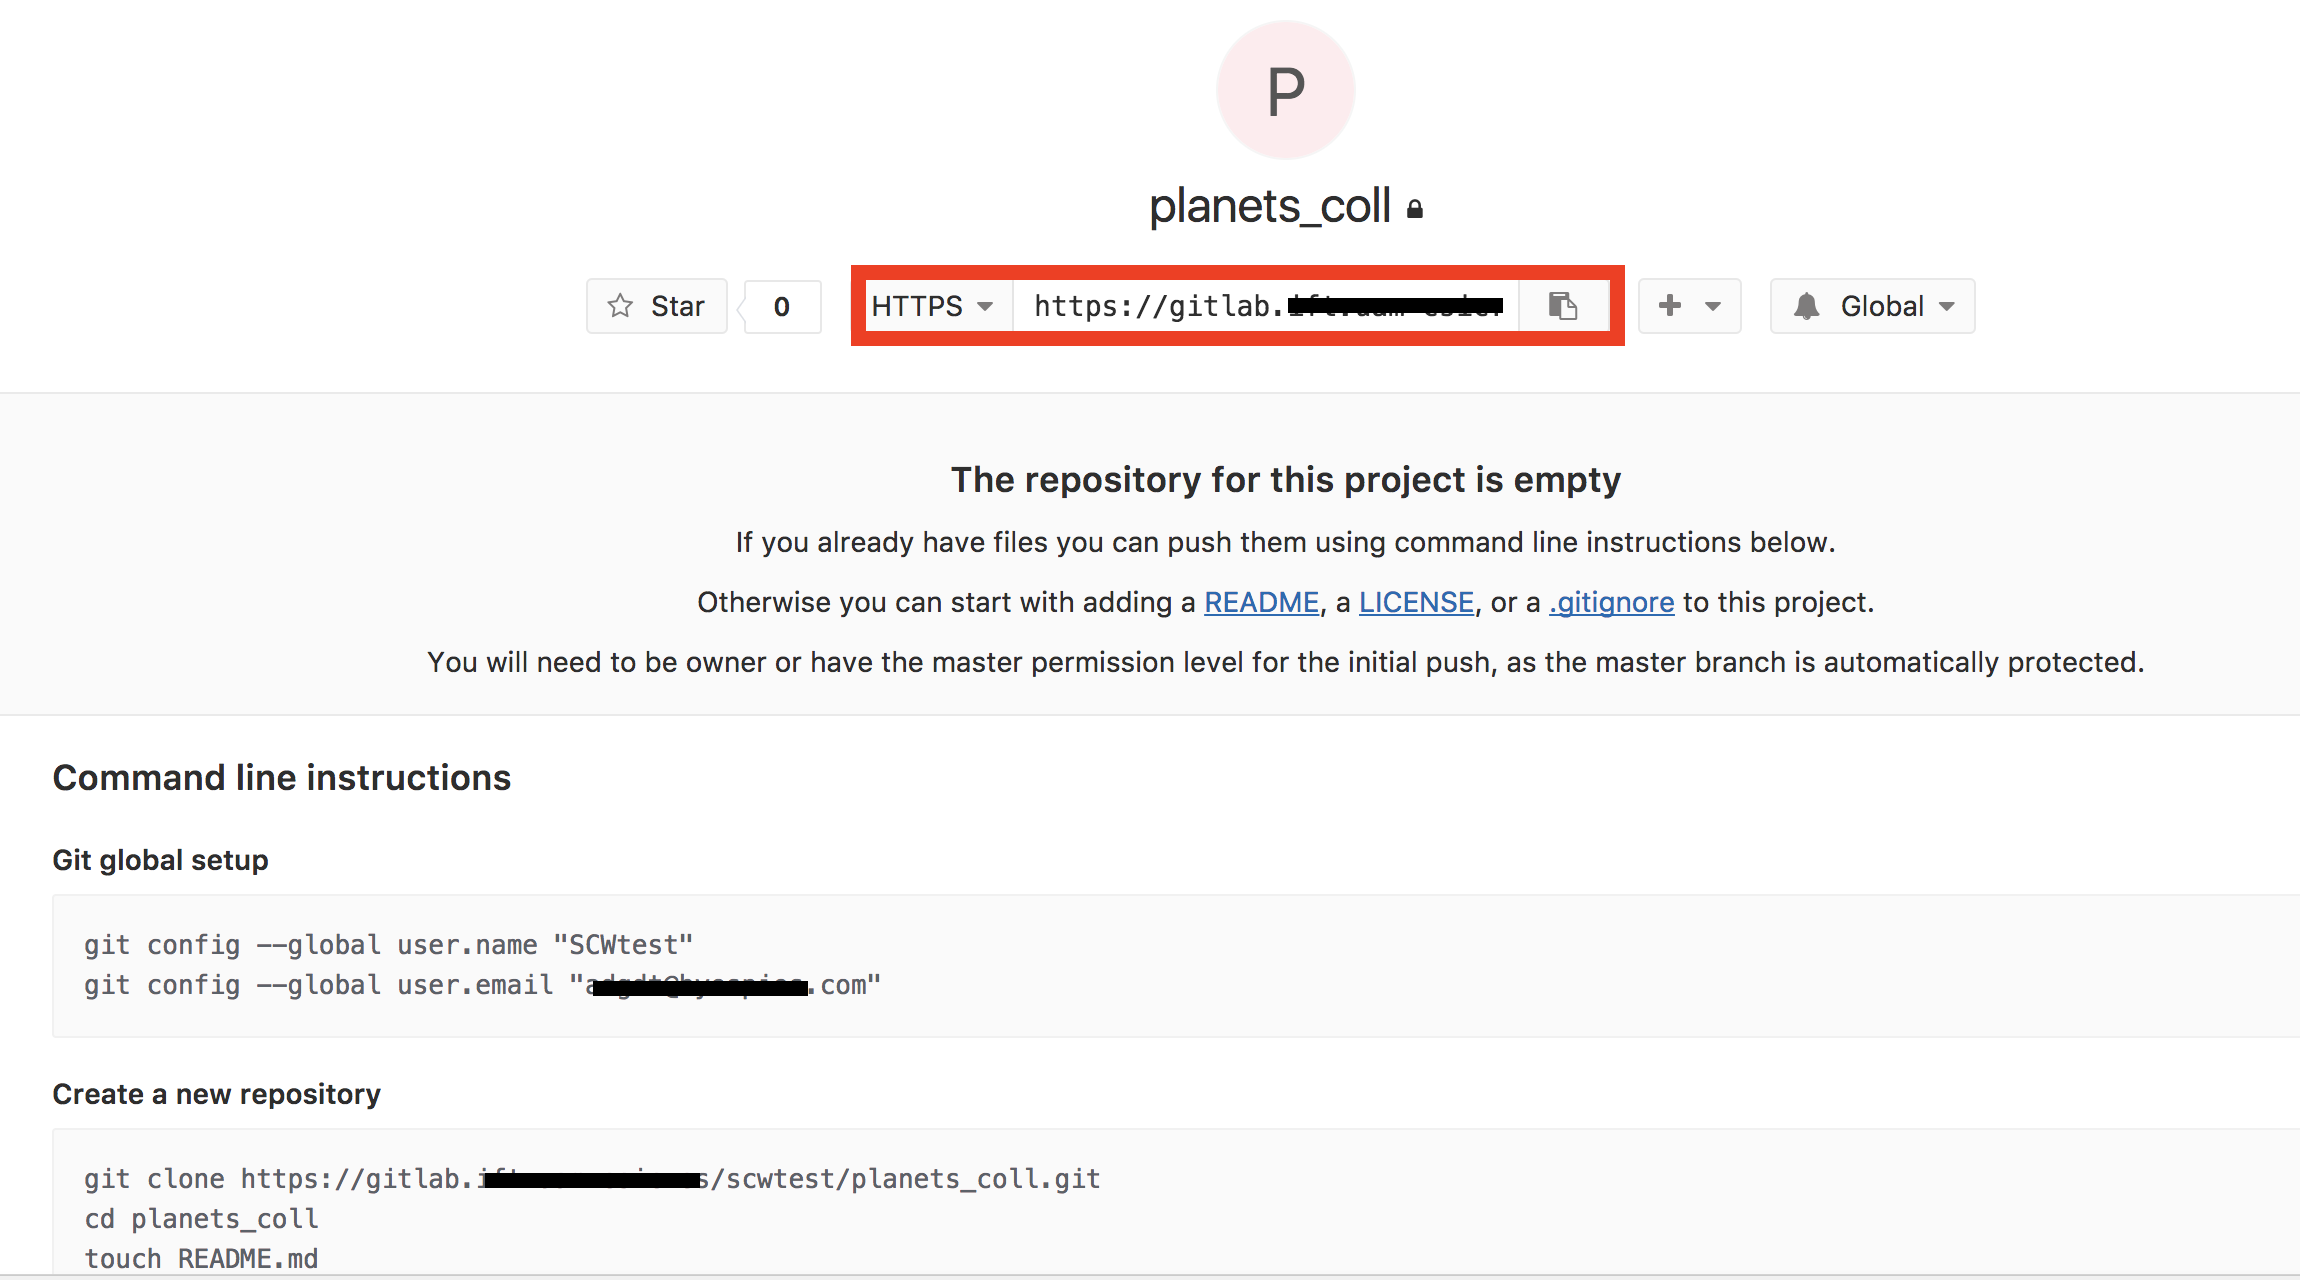
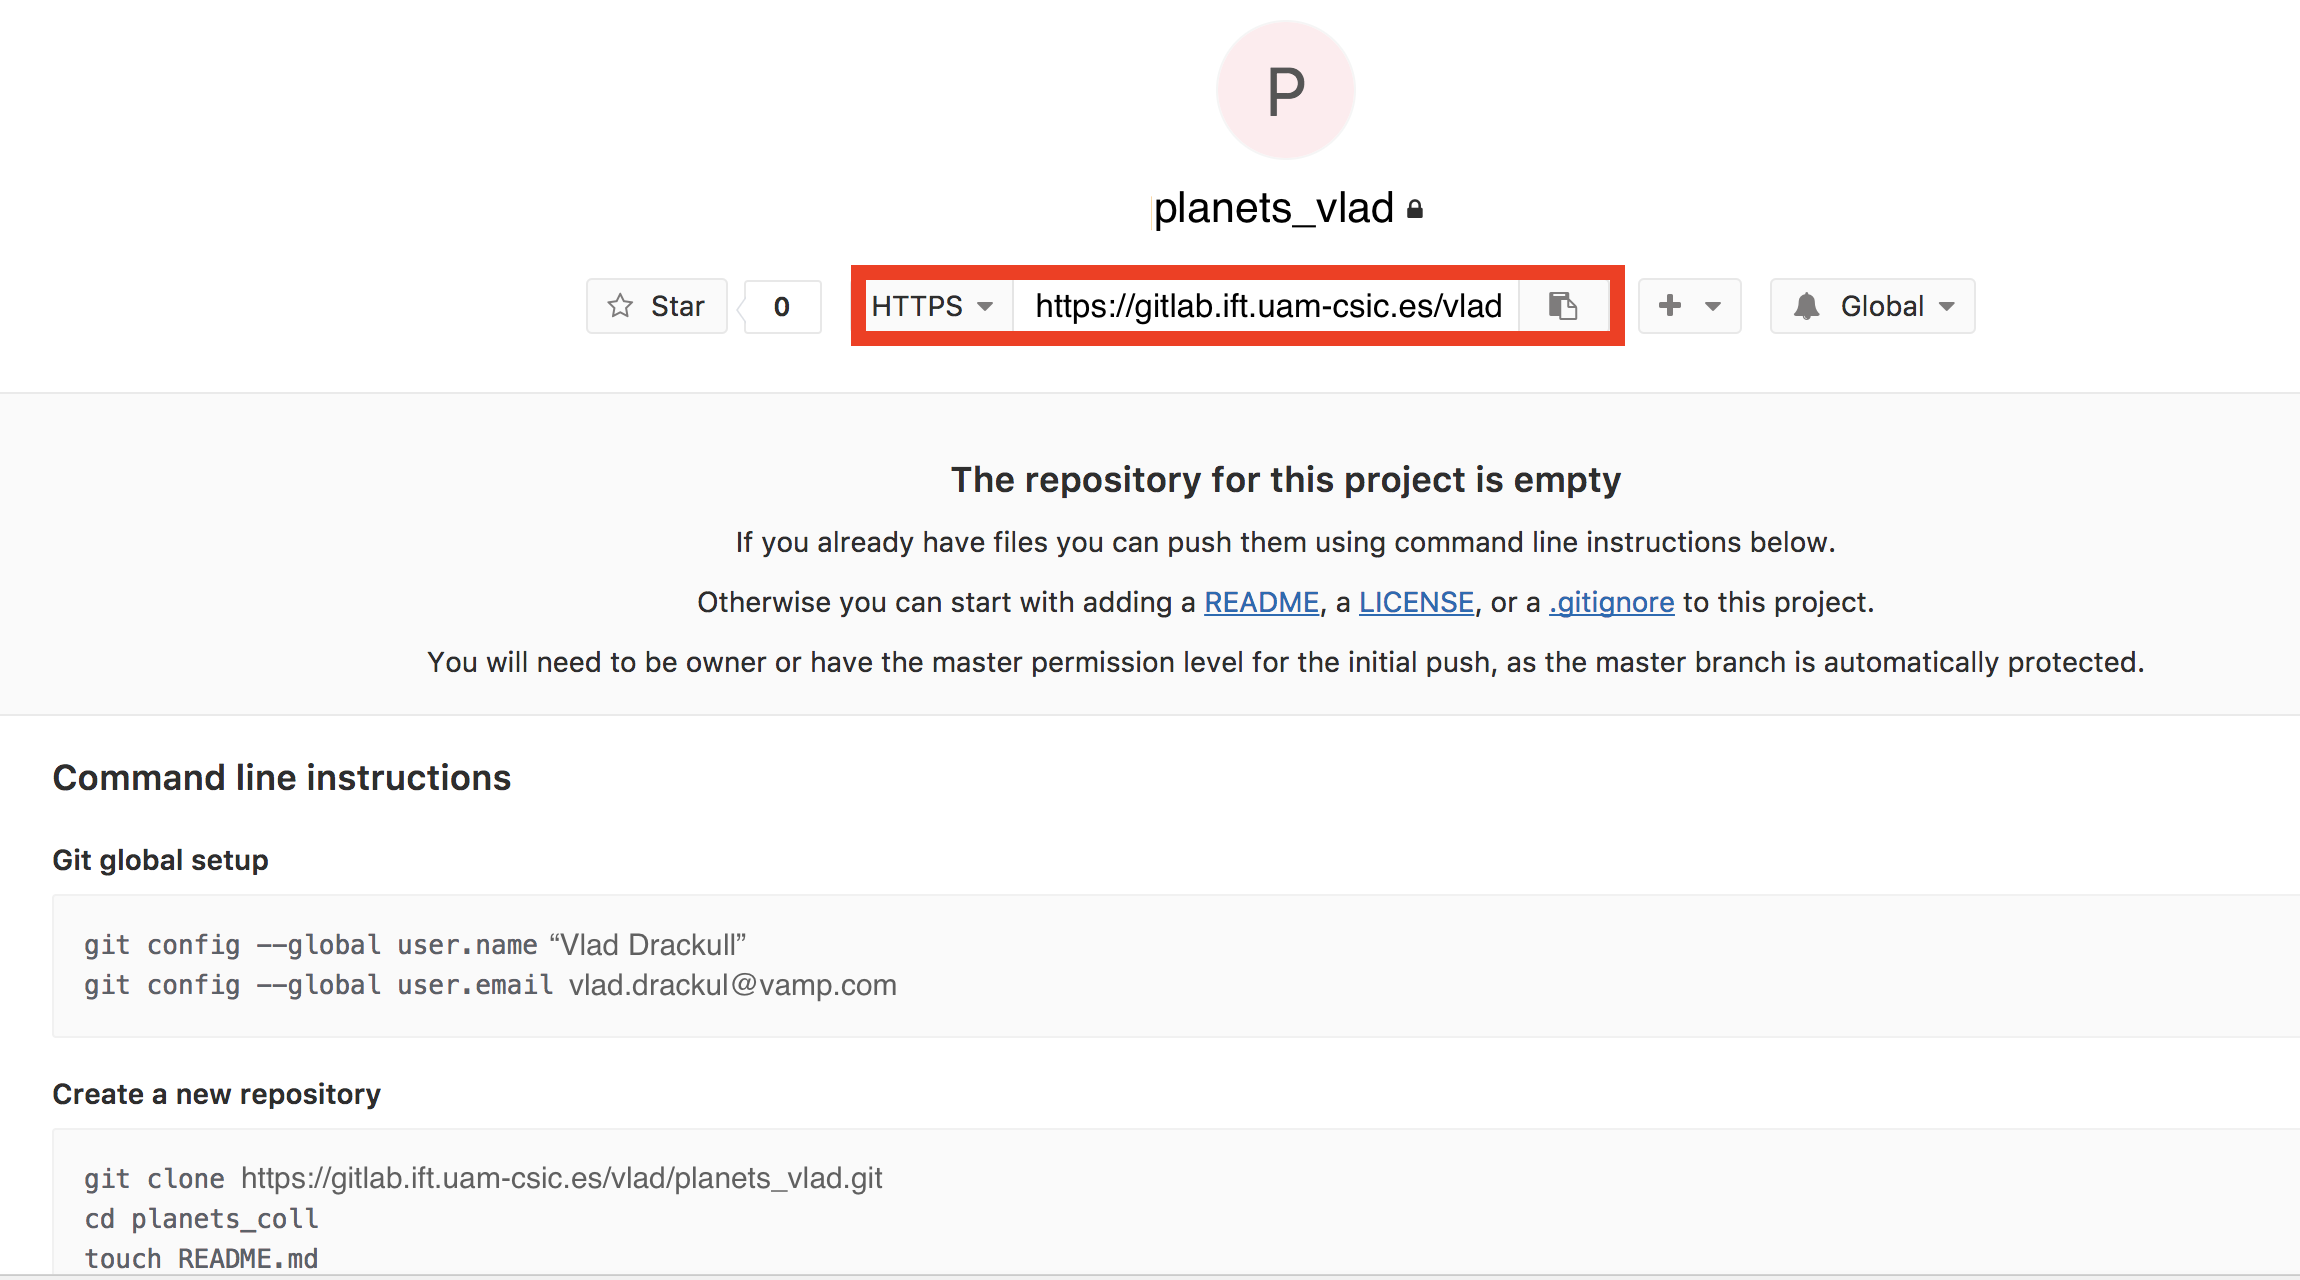
Change user scwtest to vlad to keep coherence with the git-terminal part of the lesson

diff --git a/_episodes/07-github.md b/_episodes/07-github.md
@@ -84,12 +84,12 @@ Copy that URL from the browser, go into the local `planets` repository, and run
 this command:
 
 ~~~
-$ git remote add origin https://gitlab.ift.uam-csic.es/scwtest/planets_vlad.git
+$ git remote add origin https://gitlab.ift.uam-csic.es/vlad/planets_vlad.git
 ~~~
 {: .bash}
 
 Make sure to use the URL for your repository rather than SCWtest's: the only
-difference should be your username instead of `scwtest`.
+difference should be your username instead of `vlad`.
 
 We can check that the command has worked by running `git remote -v`:
 
@@ -99,8 +99,8 @@ $ git remote -v
 {: .bash}
 
 ~~~
-origin   https://gitlab.ift.uam-csic.es/scwtest/planets_vlad.git (push)
-origin   https://gitlab.ift.uam-csic.es/scwtest/planets_vlad.git (fetch)
+origin   https://gitlab.ift.uam-csic.es/vlad/planets_vlad.git (push)
+origin   https://gitlab.ift.uam-csic.es/vlad/planets_vlad.git (fetch)
 ~~~
 {: .output}
 
@@ -133,7 +133,7 @@ Delta compression using up to 4 threads.
 Compressing objects: 100% (6/6), done.
 Writing objects: 100% (9/9), 821 bytes, done.
 Total 9 (delta 2), reused 0 (delta 0)
-To https://gitlab.ift.uam-csic.es/scwtest/planets_vlad
+To https://gitlab.ift.uam-csic.es/vlad/planets_vlad
  * [new branch]      master -> master
 Branch master set up to track remote branch master from origin.
 ~~~
@@ -205,7 +205,7 @@ $ git pull origin master
 {: .bash}
 
 ~~~
-From https://gitlab.ift.uam-csic.es/scwtest/planets_vlad
+From https://gitlab.ift.uam-csic.es/vlad/planets_vlad
  * branch            master     -> FETCH_HEAD
 Already up-to-date.
 ~~~

diff --git a/_episodes/08-collab.md b/_episodes/08-collab.md
@@ -59,11 +59,11 @@ her `home` folder, the Collaborator enters:
 
 ~~~
 $ cd ~
-$ git clone https://gitlab.ift.uam-csic.es/scwtest/planets_coll_scwtest.git
+$ git clone https://gitlab.ift.uam-csic.es/vlad/planets_vlad.git
 ~~~
 {: .bash}
 
-Remember the Collaborator must replace `scwtest` with the Owner's username.
+Remember the Collaborator must replace `vlad` with the Owner's username.
 
 ![After Creating Clone of Repository](../fig/github-collaboration.svg)
 
@@ -71,7 +71,7 @@ The Collaborator can now make a change in her clone of the Owner's repository,
 exactly the same way as we've been doing before:
 
 ~~~
-$ cd ~/planets_coll_scwtest
+$ cd ~/planets_vlad
 $ nano pluto.txt
 $ cat pluto.txt
 ~~~
